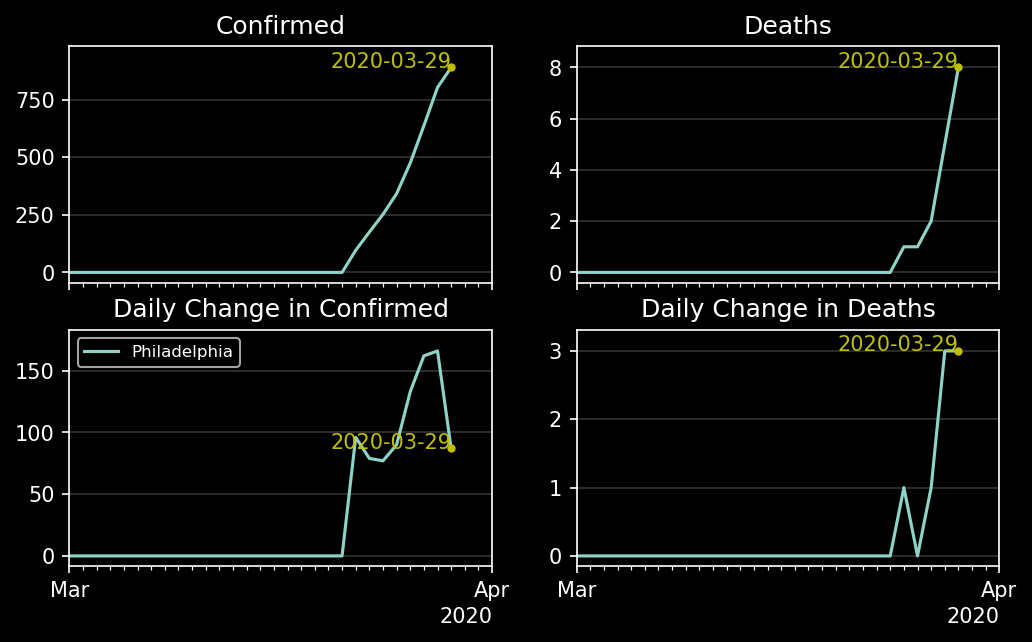
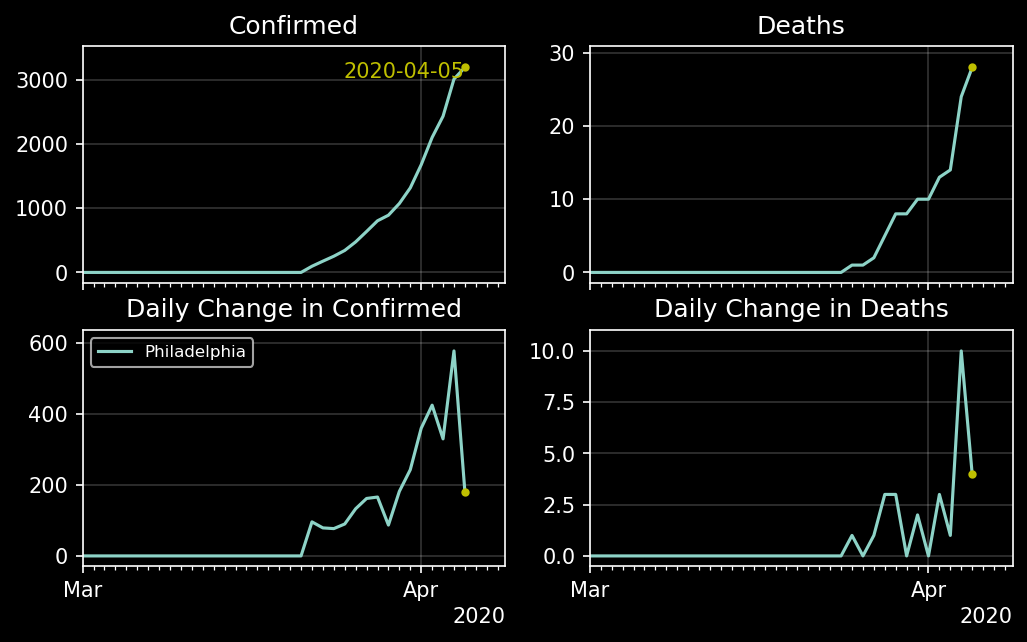
Updated so that the xmax value is determined automatically.

diff --git a/philadelphia.py b/philadelphia.py
@@ -13,7 +13,7 @@ country = 'US'
 dpi = 150
 figsize = (1200 / dpi, 675 / dpi)
 date_start = np.datetime64('2020-03-01')  # None for min
-date_final = np.datetime64('2020-04-01')  # None for max
+date_final = None  # None for max
 cities = ['Philadelphia']
 
 # Get dataframe for all data files
@@ -56,20 +56,19 @@ plt.style.use('dark_background')
 fig, axs = plt.subplots(2, len(data_to_plot), figsize=figsize, dpi=dpi, sharex='all')
 months = mdates.MonthLocator()
 days = mdates.DayLocator()
-for y_str, ax in zip(data_to_plot, axs.T):
+for yi, (y_str, ax) in enumerate(zip(data_to_plot, axs.T)):
     ax0 = ax[0]
     ax1 = ax[1]
     for ci, c in enumerate(df.iloc[0:len(cities)].index.values):
         y = df.iloc[ci, :][y_str]
         ax0.plot_date(date, y / y_scale, '-', label=c)
         ax0.plot_date(date[-1], y[-1] / y_scale, '.', color='y')
-        ax0.text(date[-1], y[-1] / y_scale, np.datetime_as_string(date[-1], 'D'),
-                 horizontalalignment='right', color='y')
         dy = np.diff(y)
         ax1.plot_date(date[1:], dy / y_scale, '-', label=c)
         ax1.plot_date(date[-1], dy[-1] / y_scale, '.', color='y')
-        ax1.text(date[-1], dy[-1] / y_scale, np.datetime_as_string(date[-1], 'D'),
-                 horizontalalignment='right', color='y')
+        if yi == 0 and ci == 0:
+            ax0.text(date[-1], 0.95 * y[-1] / y_scale, np.datetime_as_string(date[-1],
+                     'D'), horizontalalignment='right', color='y')
     ax0.xaxis.set_tick_params(labelsize=10)
     ax0.set_title('{}'.format(y_str, int(y_scale)))
     ax1.set_title('Daily Change in {}'.format(y_str, int(y_scale)))

diff --git a/countries.py b/countries.py
@@ -13,7 +13,7 @@ data_to_plot = ['Confirmed', 'Deaths']
 dpi = 150
 figsize = (1200 / dpi, 675 / dpi)
 date_start = np.datetime64('2020-02-20')  # Data starts at 2020-01-22
-date_final = np.datetime64('2020-04-01')  # None for max
+date_final = None  # None for max
 
 # Get dataframe for all data files
 df_all = data_grabber.get_covid_df()
@@ -53,7 +53,7 @@ plt.style.use('dark_background')
 fig, axs = plt.subplots(2, len(data_to_plot), figsize=figsize, dpi=dpi, sharex='all')
 months = mdates.MonthLocator()
 days = mdates.DayLocator()
-for y_str, ax in zip(data_to_plot, axs.T):
+for yi, (y_str, ax) in enumerate(zip(data_to_plot, axs.T)):
     ax0 = ax[0]
     ax1 = ax[1]
     for ci, c in enumerate(df.iloc[0:top_n_regions].index.values):
@@ -61,6 +61,9 @@ for y_str, ax in zip(data_to_plot, axs.T):
         ax0.plot_date(date, y / y_scale, '-', label=c)
         dy = np.diff(y)
         ax1.plot_date(date[1:], dy / y_scale, '-', label=c)
+        if yi == 0 and ci == 0:
+            ax0.text(date[-1], 0.95 * y[-1] / y_scale, np.datetime_as_string(date[-1],
+                     'D'), horizontalalignment='right', color='y')
     ax0.xaxis.set_tick_params(labelsize=10)
     ax0.set_title('{} [x{}]'.format(y_str, int(y_scale)))
     ax1.set_title('Daily Change {} [x{}]'.format(y_str, int(y_scale)))

diff --git a/states.py b/states.py
@@ -14,7 +14,7 @@ country = 'US'
 dpi = 150
 figsize = (1200 / dpi, 675 / dpi)
 date_start = np.datetime64('2020-03-01')  # None for min
-date_final = np.datetime64('2020-04-01')  # None for max
+date_final = None  # None for max
 
 # Get dataframe for all data files
 df_all = data_grabber.get_covid_df()
@@ -56,7 +56,7 @@ plt.style.use('dark_background')
 fig, axs = plt.subplots(2, len(data_to_plot), figsize=figsize, dpi=dpi, sharex='all')
 months = mdates.MonthLocator()
 days = mdates.DayLocator()
-for y_str, ax in zip(data_to_plot, axs.T):
+for yi, (y_str, ax) in enumerate(zip(data_to_plot, axs.T)):
     ax0 = ax[0]
     ax1 = ax[1]
     for ci, c in enumerate(df.iloc[0:top_n_regions].index.values):
@@ -64,6 +64,9 @@ for y_str, ax in zip(data_to_plot, axs.T):
         ax0.plot_date(date, y / y_scale, '-', label=c)
         dy = np.diff(y)
         ax1.plot_date(date[1:], dy / y_scale, '-', label=c)
+        if yi == 0 and ci == 0:
+            ax0.text(date[-1], 0.95 * y[-1] / y_scale, np.datetime_as_string(date[-1],
+                     'D'), horizontalalignment='right', color='y')
     ax0.xaxis.set_tick_params(labelsize=10)
     ax0.set_title('{} [x{}]'.format(y_str, int(y_scale)))
     ax1.set_title('Daily Change {} [x{}]'.format(y_str, int(y_scale)))
